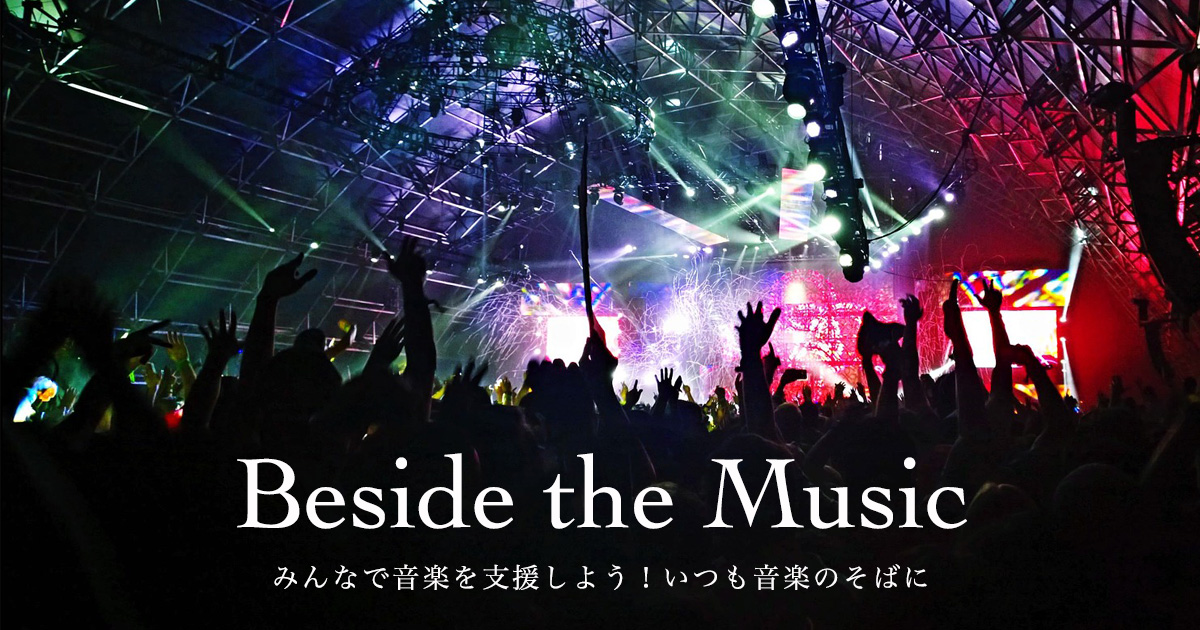
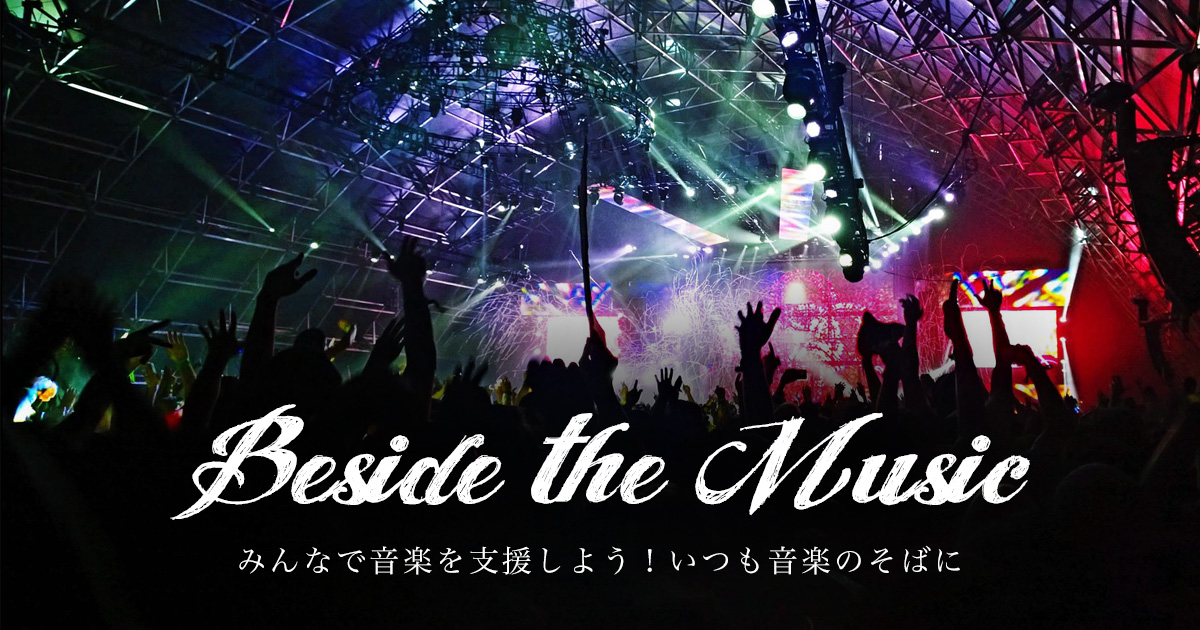
PC・スマホでのメインヴィジュアル部分に修正を加えました。 合わせてそこで使用している画像も少しいじっています。

diff --git a/components/Hero.vue b/components/Hero.vue
@@ -1,22 +1,20 @@
 <template>
   <section id="hero" class="hero-container">
-    <div class="hero is-primary is-medium">
-      <div class="hero-body">
-        <div class="container is-small has-text-centered">
-          <h1 class="title is-1 is-spaced">
-            Beside the Music
-          </h1>
-          <h2 class="subtitle">
-            みんなで音楽を支援しよう！いつも音楽のそばに
-          </h2>
-      </div>
-      </div>
-    </div>
+    <div id="mainVisual-pc" class="is-hidden-mobile"></div>
+    <div id="mainVisual-sp" class="is-hidden-tablet"><img src="/images/main2_sp.jpg"></div>
   </section>
 </template>
 
 <style scoped>
-.hero.is-primary {
-  background: url('/images/main.jpg');
+#mainVisual-pc{
+  background: url("/images/main2_pc.jpg") center 0 no-repeat;
+  background-size: cover;
+  background-color:#000000;
+  color:#FFFFFF;
+  min-height: 900px;
+  background-position: bottom;
+}
+#mainVisual-sp{
+  background-color:#000000;
 }
 </style>

diff --git a/components/Statement.vue b/components/Statement.vue
@@ -3,6 +3,12 @@
     <div class="container is-small has-text-centered">
       <div class="columns">
         <div class="column is-half is-offset-one-quarter">
+          <h1 class="title is-1 is-spaced has-text-white">
+            Beside the Music
+          </h1>
+          <h2 class="subtitle has-text-white">
+            みんなで音楽を支援しよう！いつも音楽のそばに
+          </h2>
           <p>
             現在コロナウィルスの影響で営業することができず、苦しんでいるライブハウスがたくさんあります。中にはすでに店を閉めざるを得ない選択をしたところもあります。<br>
             <br>
@@ -13,7 +19,7 @@
             誰かにとっての大切な場所がこれからもずっと存続できますように。
           </p>
         </div>
-      </div>
+      </div>      
     </div>
   </section>
 </template>
